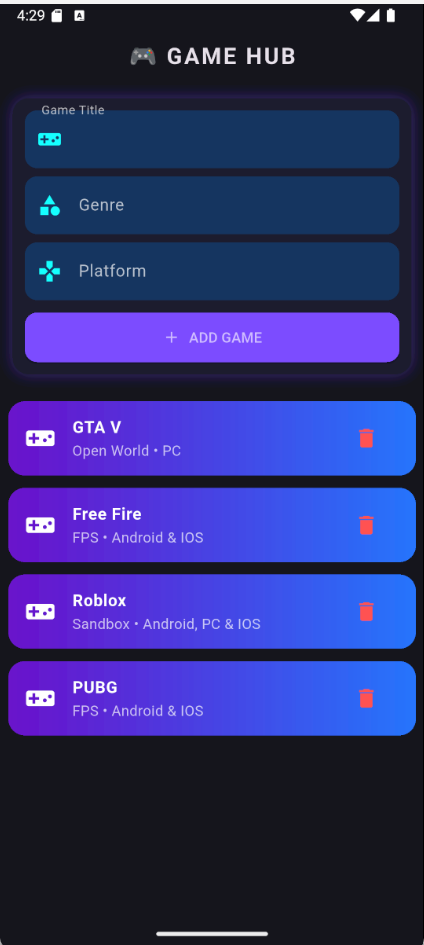
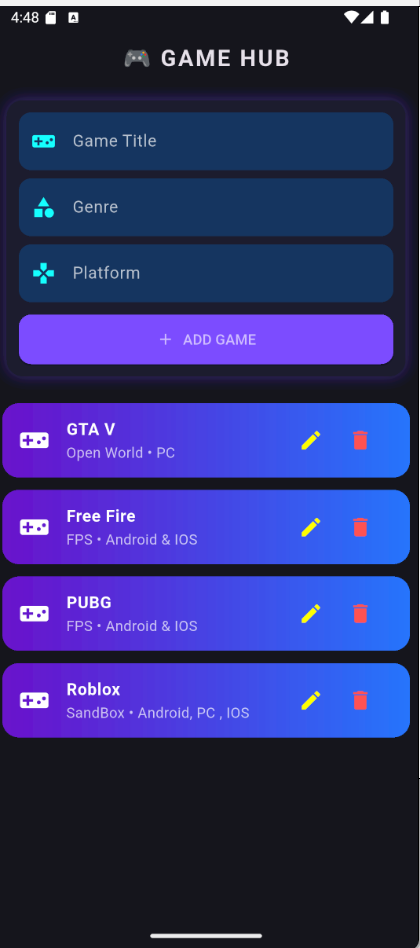
TUGAS PEMOB 2 Eleraning

diff --git a/lib/game_page.dart b/lib/game_page.dart
@@ -32,6 +32,62 @@ class _GamePageState extends State<GamePage> {
     platformController.clear();
   }
 
+  void editGame(String id, String title, String genre, String platform) {
+    final editTitle = TextEditingController(text: title);
+    final editGenre = TextEditingController(text: genre);
+    final editPlatform = TextEditingController(text: platform);
+
+    showDialog(
+      context: context,
+      builder: (_) => AlertDialog(
+        backgroundColor: const Color(0xFF1A1A2E),
+        title: const Text('EDIT GAME', style: TextStyle(color: Colors.white)),
+        content: Column(
+          mainAxisSize: MainAxisSize.min,
+          children: [
+            gameField(
+              controller: editTitle,
+              label: 'Game Title',
+              icon: Icons.videogame_asset,
+            ),
+            const SizedBox(height: 8),
+            gameField(
+              controller: editGenre,
+              label: 'Genre',
+              icon: Icons.category,
+            ),
+            const SizedBox(height: 8),
+            gameField(
+              controller: editPlatform,
+              label: 'Platform',
+              icon: Icons.gamepad,
+            ),
+          ],
+        ),
+        actions: [
+          TextButton(
+            onPressed: () => Navigator.pop(context),
+            child: const Text(
+              'CANCEL',
+              style: TextStyle(color: Colors.redAccent),
+            ),
+          ),
+          ElevatedButton(
+            onPressed: () {
+              gameCollection.doc(id).update({
+                'title': editTitle.text,
+                'genre': editGenre.text,
+                'platform': editPlatform.text,
+              });
+              Navigator.pop(context);
+            },
+            child: const Text('UPDATE'),
+          ),
+        ],
+      ),
+    );
+  }
+
   void deleteGame(String id) {
     gameCollection.doc(id).delete();
   }
@@ -148,12 +204,29 @@ class _GamePageState extends State<GamePage> {
                           '${doc['genre']} • ${doc['platform']}',
                           style: const TextStyle(color: Colors.white70),
                         ),
-                        trailing: IconButton(
-                          icon: const Icon(
-                            Icons.delete,
-                            color: Colors.redAccent,
-                          ),
-                          onPressed: () => deleteGame(doc.id),
+                        trailing: Row(
+                          mainAxisSize: MainAxisSize.min,
+                          children: [
+                            IconButton(
+                              icon: const Icon(
+                                Icons.edit,
+                                color: Colors.yellowAccent,
+                              ),
+                              onPressed: () => editGame(
+                                doc.id,
+                                doc['title'],
+                                doc['genre'],
+                                doc['platform'],
+                              ),
+                            ),
+                            IconButton(
+                              icon: const Icon(
+                                Icons.delete,
+                                color: Colors.redAccent,
+                              ),
+                              onPressed: () => deleteGame(doc.id),
+                            ),
+                          ],
                         ),
                       ),
                     );
